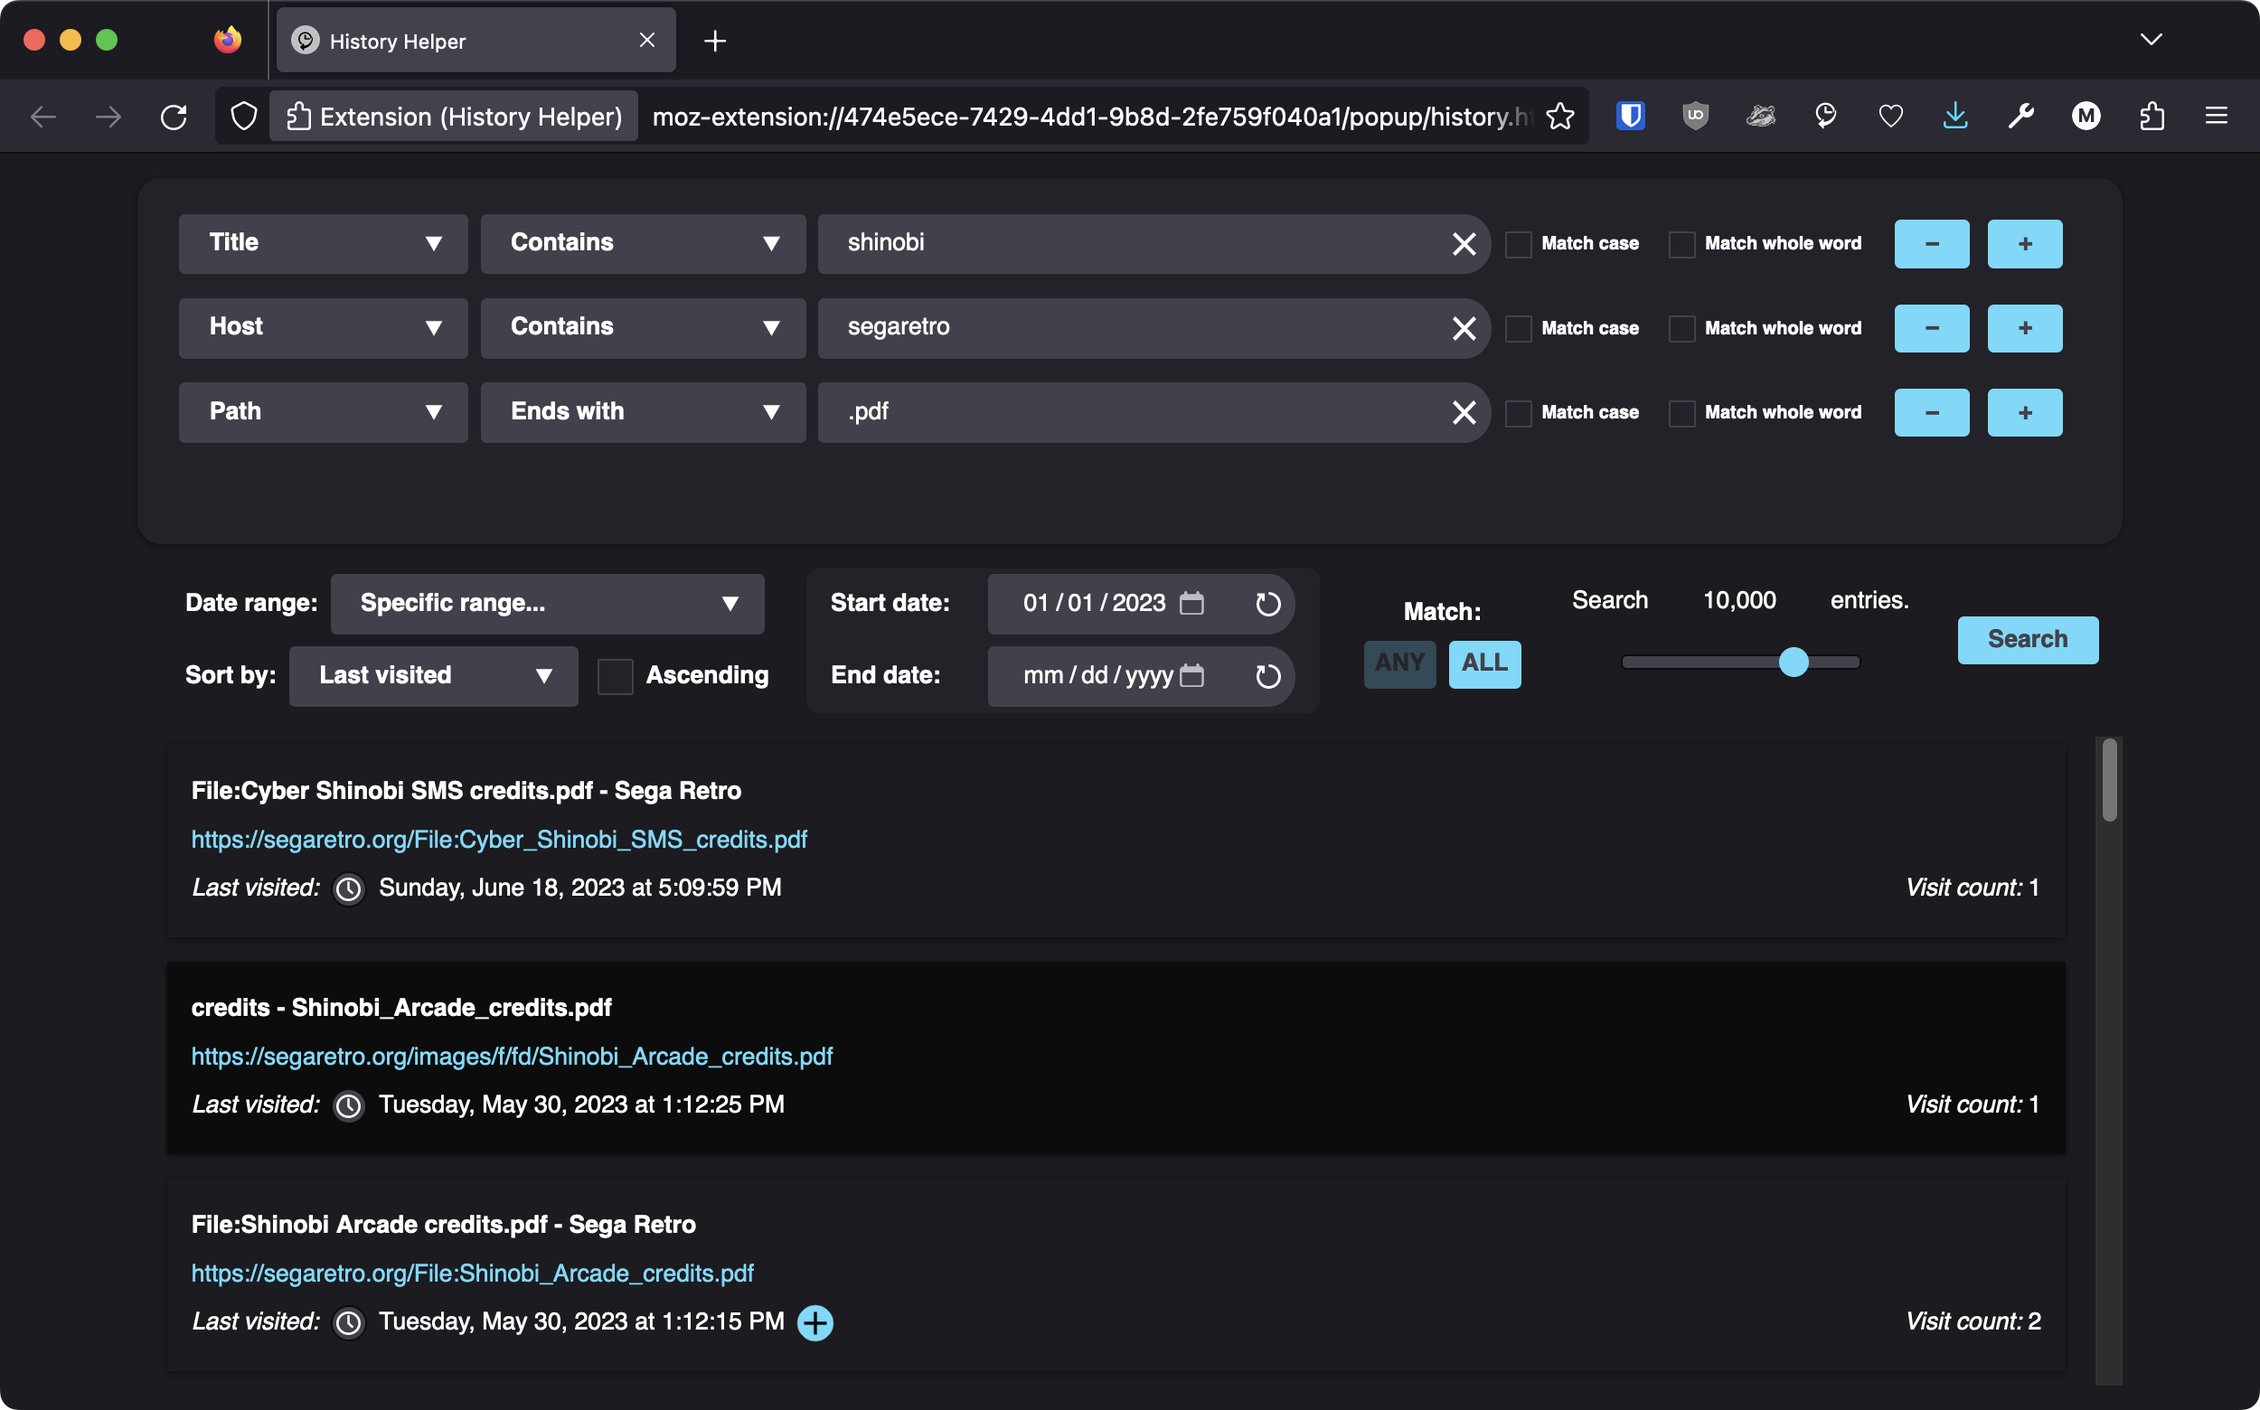
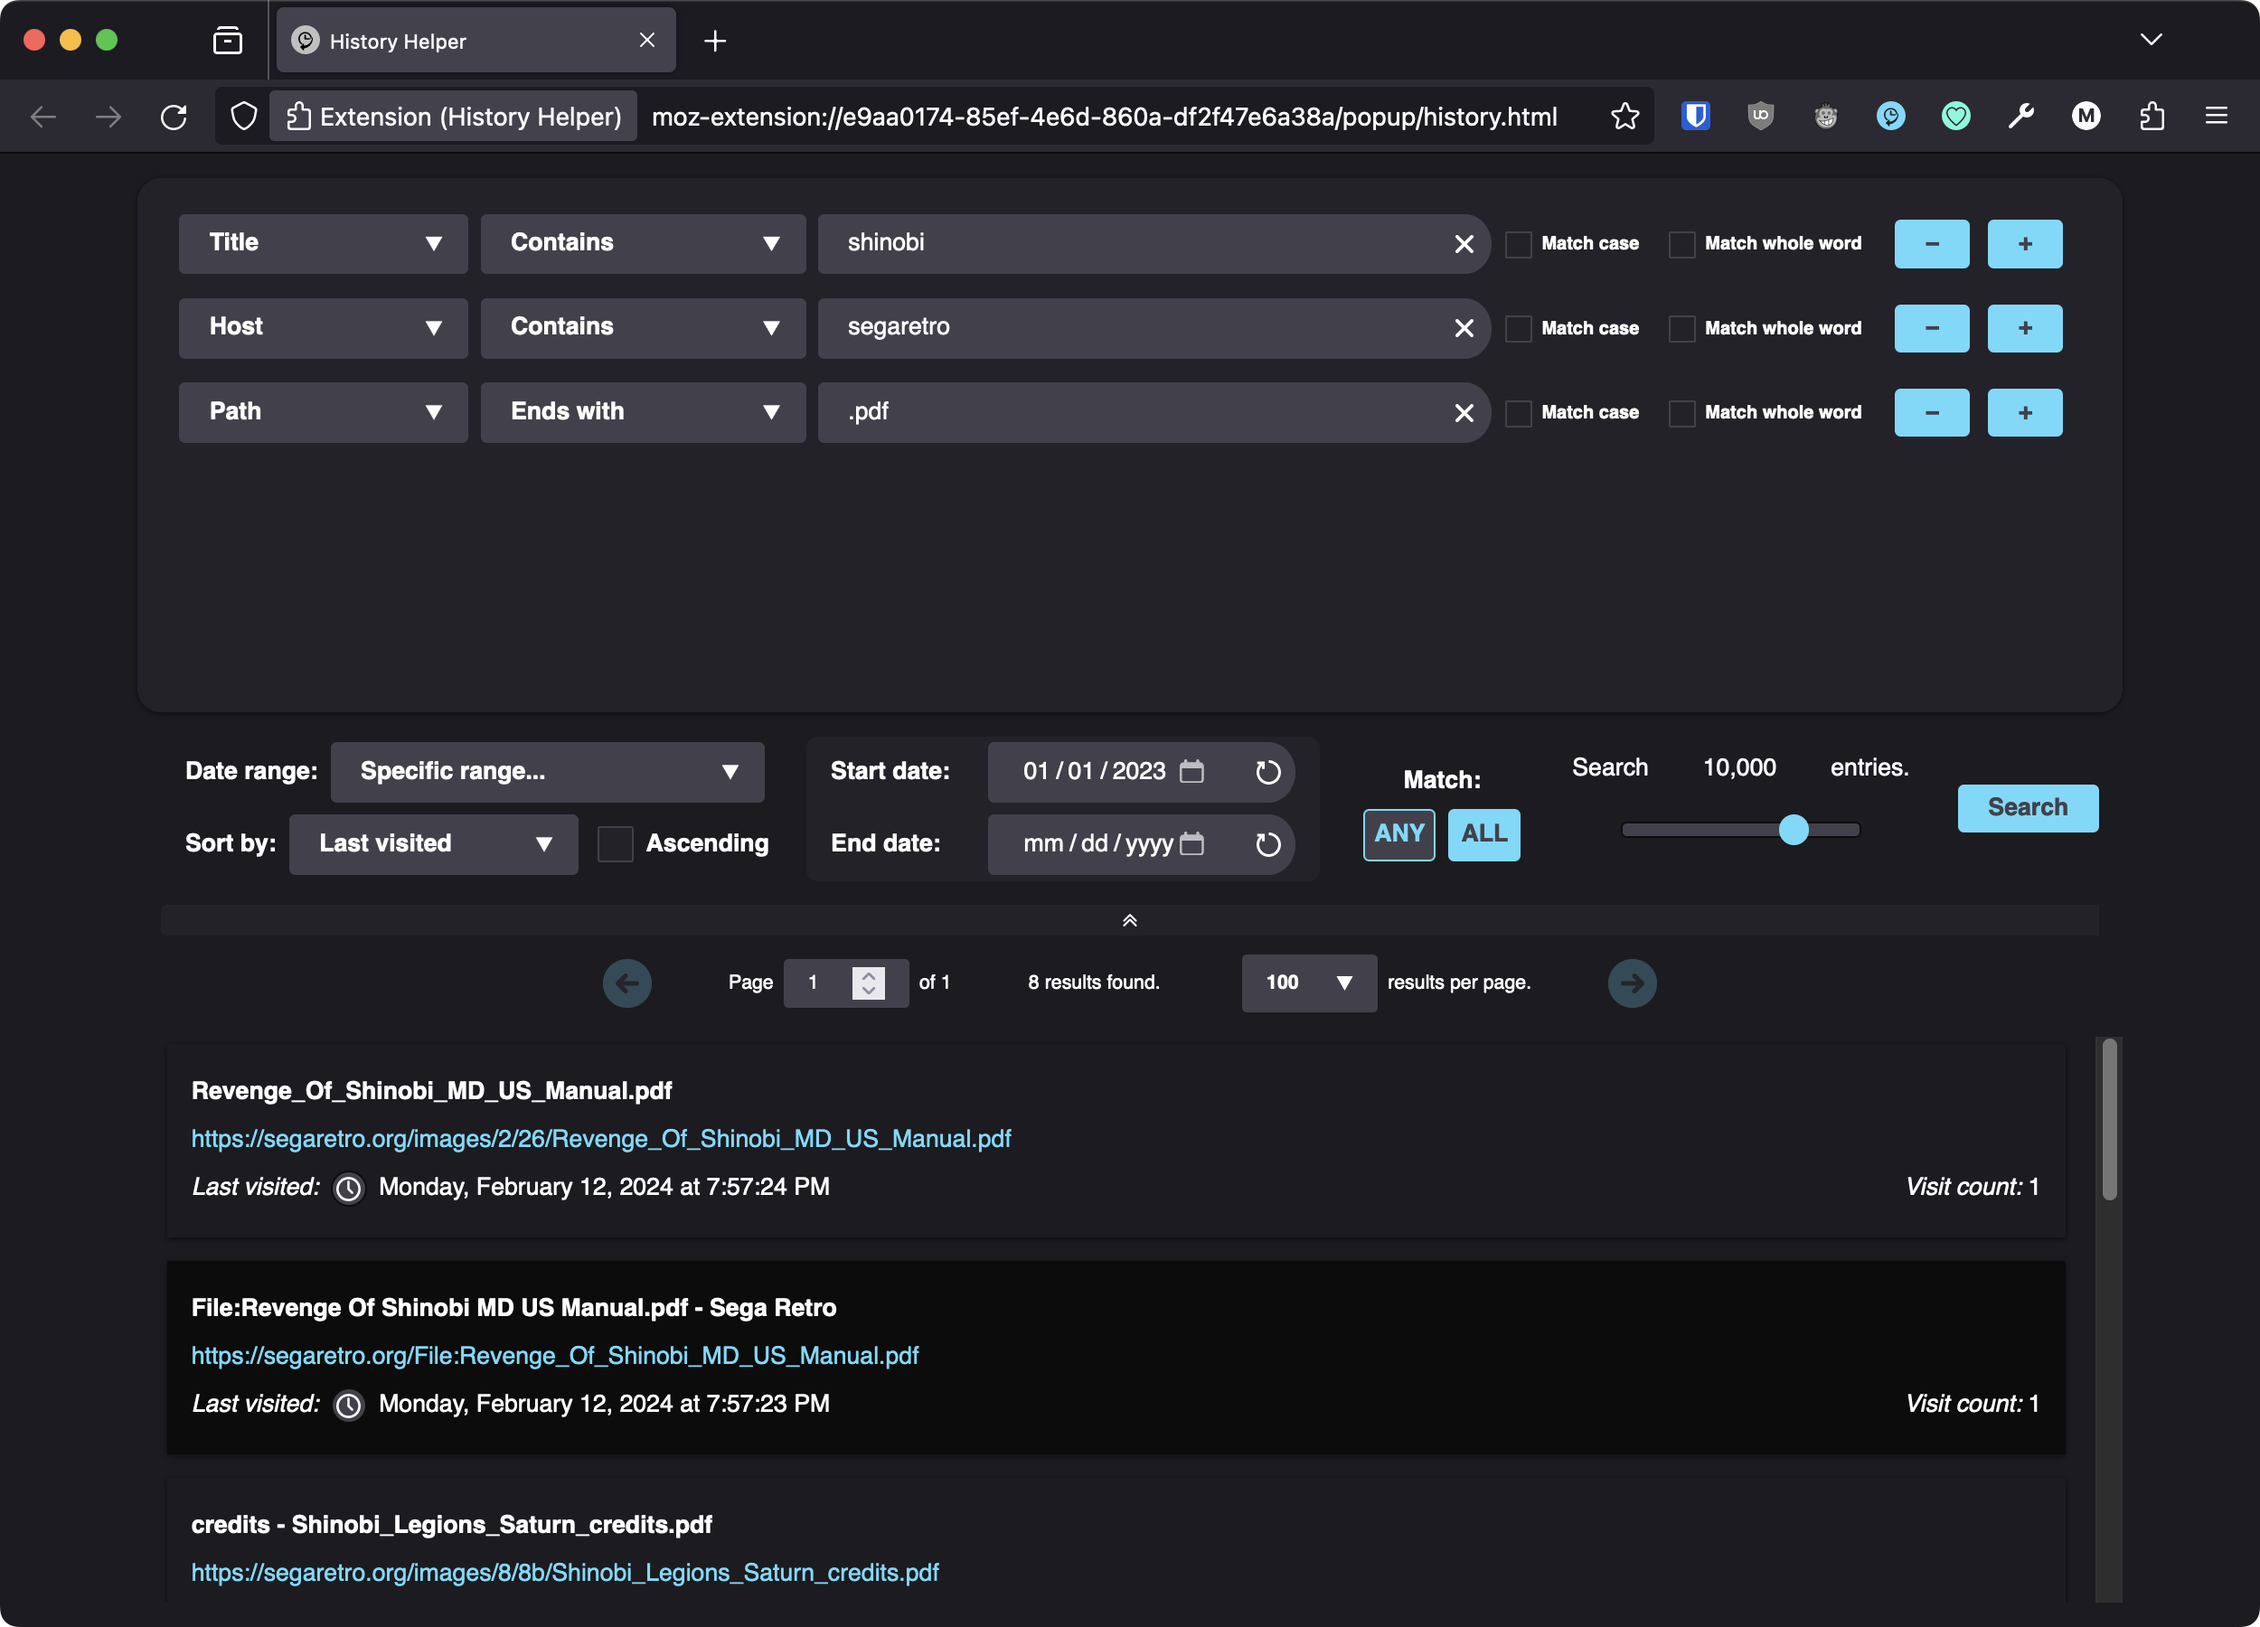
update to 1.2.6

diff --git a/popup/style.css b/popup/style.css
@@ -175,10 +175,6 @@ button.delete {
 	width: 2em;
 }
 
-button.disabled, button[disabled], input[disabled], select[disabled] {
-	opacity: 0.25;
-}
-
 button.layout {
 	background-color: var(--light-medium);
 	background-position: 50% 50%;
@@ -189,6 +185,7 @@ button.layout {
 }
 
 button.match {
+	border: 1px solid var(--light-button);
 	margin: 0.125em;
 	padding: 0;
 	width: 3em;
@@ -222,6 +219,15 @@ button.showVisits {
 
 button.showVisits.rotating {
 	animation: 0.25s rotateCounterclockwise;
+}
+
+button.unselected {
+	background: var(--light-light);
+	color: var(--light-button);
+}
+
+button[disabled], input[disabled], select[disabled] {
+	opacity: 0.25;
 }
 
 div#dateRanges {
@@ -692,6 +698,10 @@ select.string {
 		background-color: var(--dark-medium);
 	}
 
+	button.match {
+		border-color: var(--dark-button);
+	}
+
 	button.reset {
 		background-image: var(--dark-reset-img);
 	}
@@ -700,6 +710,11 @@ select.string {
 		background-color: var(--dark-light);
 		background-image: var(--dark-clock-img);
 		border-color: var(--dark-line);
+	}
+
+	button.unselected {
+		background: var(--dark-light);
+		color: var(--dark-button);
 	}
 
 	div#dateRanges {

diff --git a/popup/history.js b/popup/history.js
@@ -718,7 +718,7 @@ Form.prototype.reloadOptions = function(search) {
 
 	for (const element of $$(".match")) {
 		const value = Number(element.value);
-		element.classList.toggle("disabled", search.match != value);
+		element.classList.toggle("unselected", search.match != value);
 	}
 };
 
